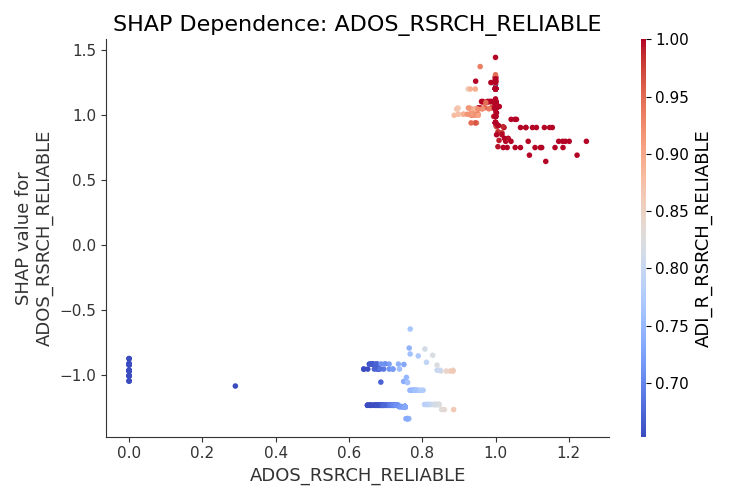
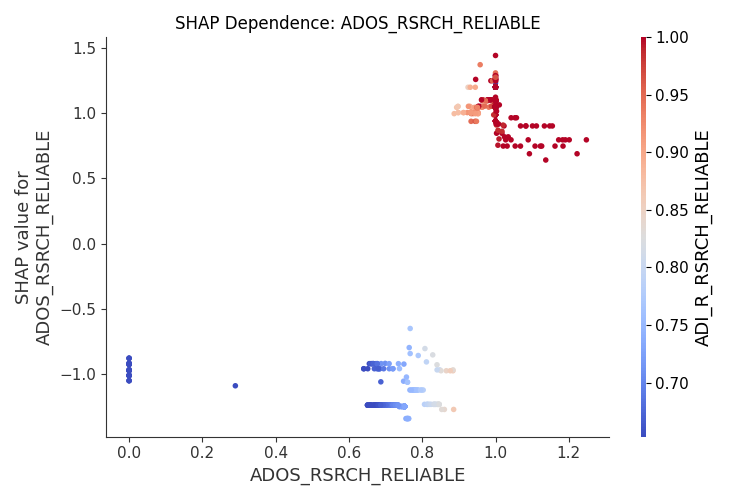
fix: adjust title fontsize and figsize

diff --git a/src/processing/explainability.py b/src/processing/explainability.py
@@ -1,4 +1,4 @@
-# Used for ...
+# Used to generate SHAP explainability plots for the LightGBM model
 
 import warnings
 warnings.filterwarnings("ignore", category=UserWarning, module="shap")
@@ -57,9 +57,9 @@ def perform_shap_analysis(model: LGBMClassifier, X: pd.DataFrame):
 
     # --- PLOT 1: SUMMARY PLOT (Beeswarm) ---
     logger.info("Generating SHAP summary plot (Beeswarm)...")
-    plt.figure(figsize=(12, 10))
+    plt.figure(figsize=(12, 8))
     shap.summary_plot(shap_values_target, X, show=False, cmap='coolwarm')
-    plt.title("SHAP Summary Plot (Global Interpretability)", fontsize=16)
+    plt.title("SHAP Summary Plot (Global Interpretability)")
     plt.tight_layout()
     out_path = config.OUTPUT_DIR / "06_shap_summary_beeswarm.png"
     plt.savefig(out_path)
@@ -68,9 +68,9 @@ def perform_shap_analysis(model: LGBMClassifier, X: pd.DataFrame):
 
     # --- PLOT 2: BAR PLOT (Importance) ---
     logger.info("Generating SHAP mean importance bar plot...")
-    plt.figure(figsize=(10, 8))
+    plt.figure(figsize=(12, 8))
     shap.summary_plot(shap_values_target, X, plot_type="bar", show=False, color='#4A90E2')
-    plt.title("Mean Absolute SHAP Values (Feature Importance)", fontsize=16)
+    plt.title("Mean Absolute SHAP Values (Feature Importance)")
     plt.tight_layout()
     out_path = config.OUTPUT_DIR / "06_shap_mean_importance_bar.png"
     plt.savefig(out_path)
@@ -83,10 +83,10 @@ def perform_shap_analysis(model: LGBMClassifier, X: pd.DataFrame):
     top_features = X.columns[top_indices]
     logger.info(f"Generating Dependence Plots for top features: {top_features.tolist()}...")
     for feat in top_features:
-        plt.figure(figsize=(10, 7))
+        plt.figure(figsize=(12, 8))
         # dependence_plot usually handles plotting itself, but we can capture it
         shap.dependence_plot(feat, shap_values_target, X, show=False, cmap='coolwarm', interaction_index='auto')
-        plt.title(f"SHAP Dependence: {feat}", fontsize=16)
+        plt.title(f"SHAP Dependence: {feat}")
         plt.tight_layout()
         safe_feat_name = feat.replace("^", "_pow_").replace(" ", "_x_")
         out_path_dep = config.OUTPUT_DIR / f"06_shap_dependence_{safe_feat_name}.png"
